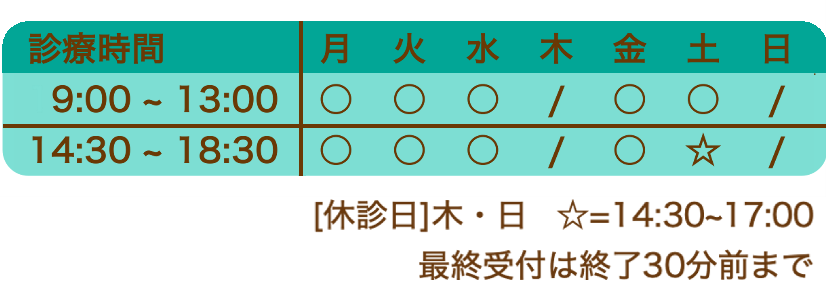
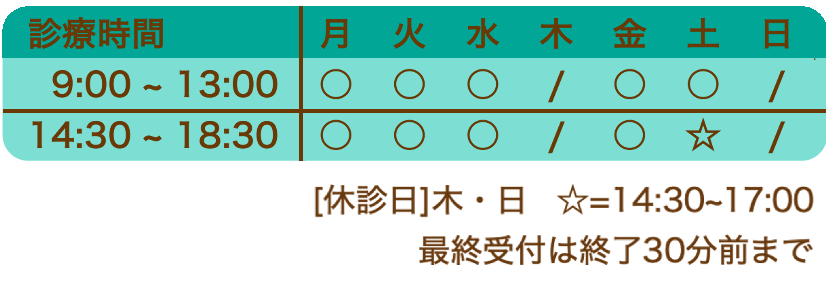
s

diff --git a/app/javascript/src/main.scss b/app/javascript/src/main.scss
@@ -460,7 +460,13 @@ html {
 		}
 
 		.bg-h {
-			background-color: #81ded3;
+			background-image: url('bg_grid.png');
+		}
+
+		.tb {
+			font-weight: lighter;
+			color: #000;
+			-webkit-text-fill-color: #000;
 		}
 
 		.wave {
